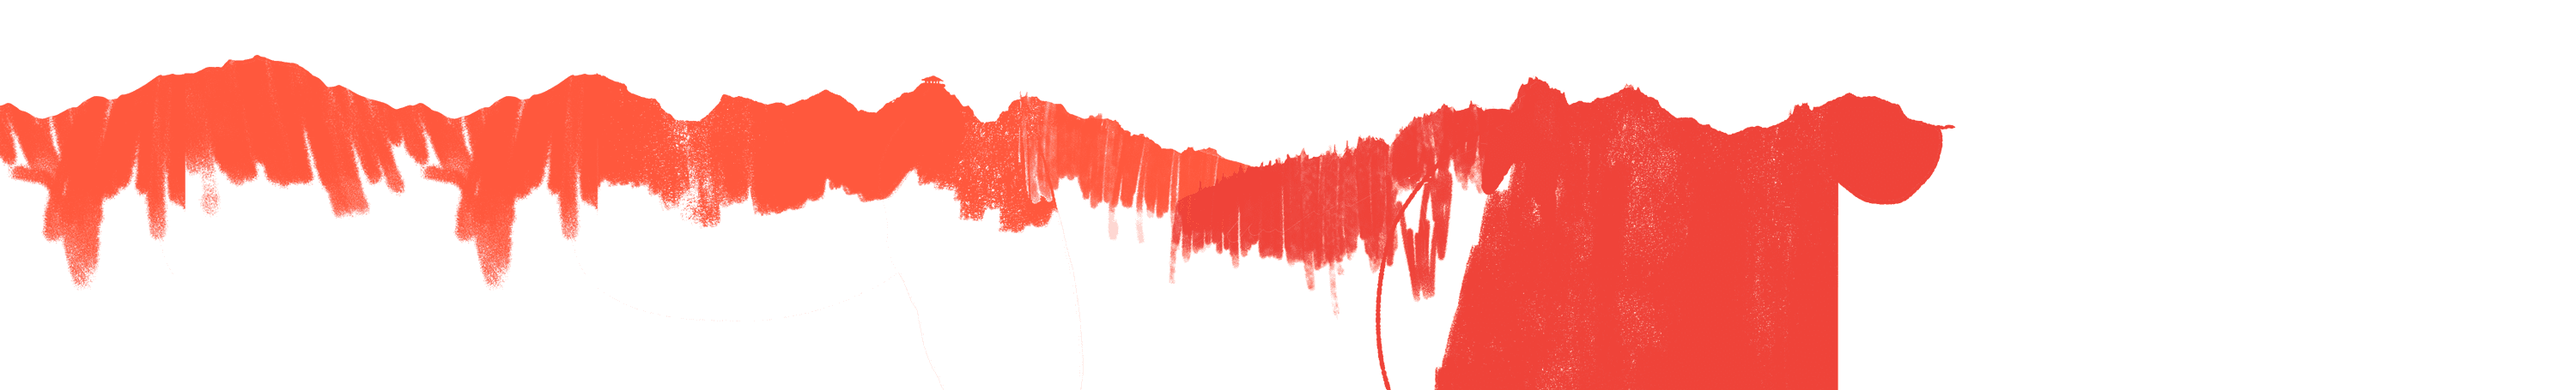
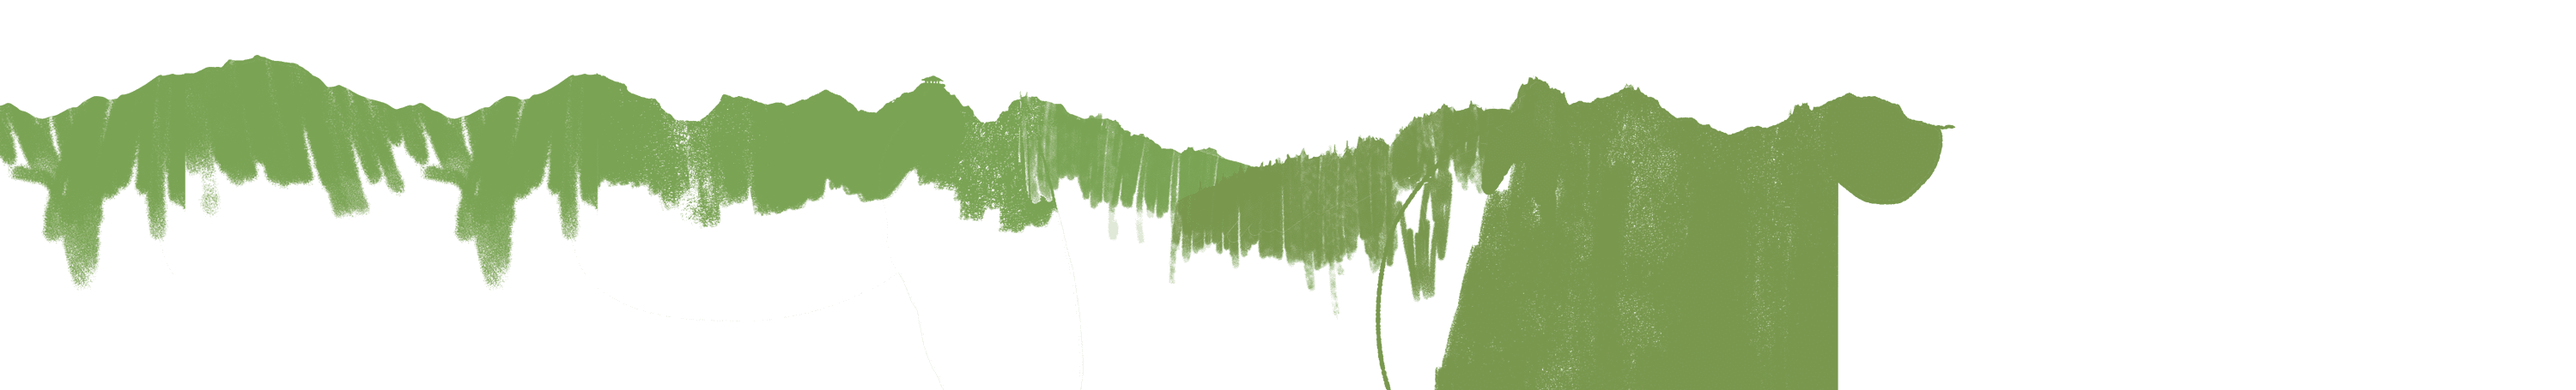
New style

Changed region(s): [[0.0, 0.1538, 0.775, 1.0]]

diff --git a/webpage/styles/main.css b/webpage/styles/main.css
@@ -33,7 +33,7 @@ body {
 #layer_0 {
   z-index: 1;
   background-image: url("../assets/img/parallax/layer_0.png");
-  background-color: #FEDCC8; }
+  background-color: #C1E8EC; }
 
 #layer_1 {
   z-index: 3;
@@ -71,11 +71,11 @@ body {
   font-family: Blanka;
   font-weight: bold;
   font-size: 5em;
-  color: #2D112B; }
+  color: #32422D; }
 
 .maincontainer {
   position: relative;
-  background-color: #2D112B;
+  background-color: #32422D;
   z-index: 98; }
 
 .main {

diff --git a/webpage/index.html b/webpage/index.html
@@ -14,7 +14,7 @@
 <body>
   <div class="parallax">
     <div class="title-container">
-      <h1 id="parallax-title" data-type="parallax" data-depth="0.4">Lorem Ipsum</h1>
+      <h1 id="parallax-title" data-type="parallax" data-depth="0.4">Future Energy</h1>
     </div>
     <div class="parallax_layer" id="layer_0" data-type="parallax" data-depth="0.14"></div>
     <!-- 0.17 -->

diff --git a/webpage/styles/main.scss b/webpage/styles/main.scss
@@ -1,5 +1,5 @@
-$background-parallax: #FEDCC8;
-$background: #2D112B;
+$background-parallax: #C1E8EC;
+$background: #32422D;
 $font-color: #FEDCC8;
 
 @import "font";
